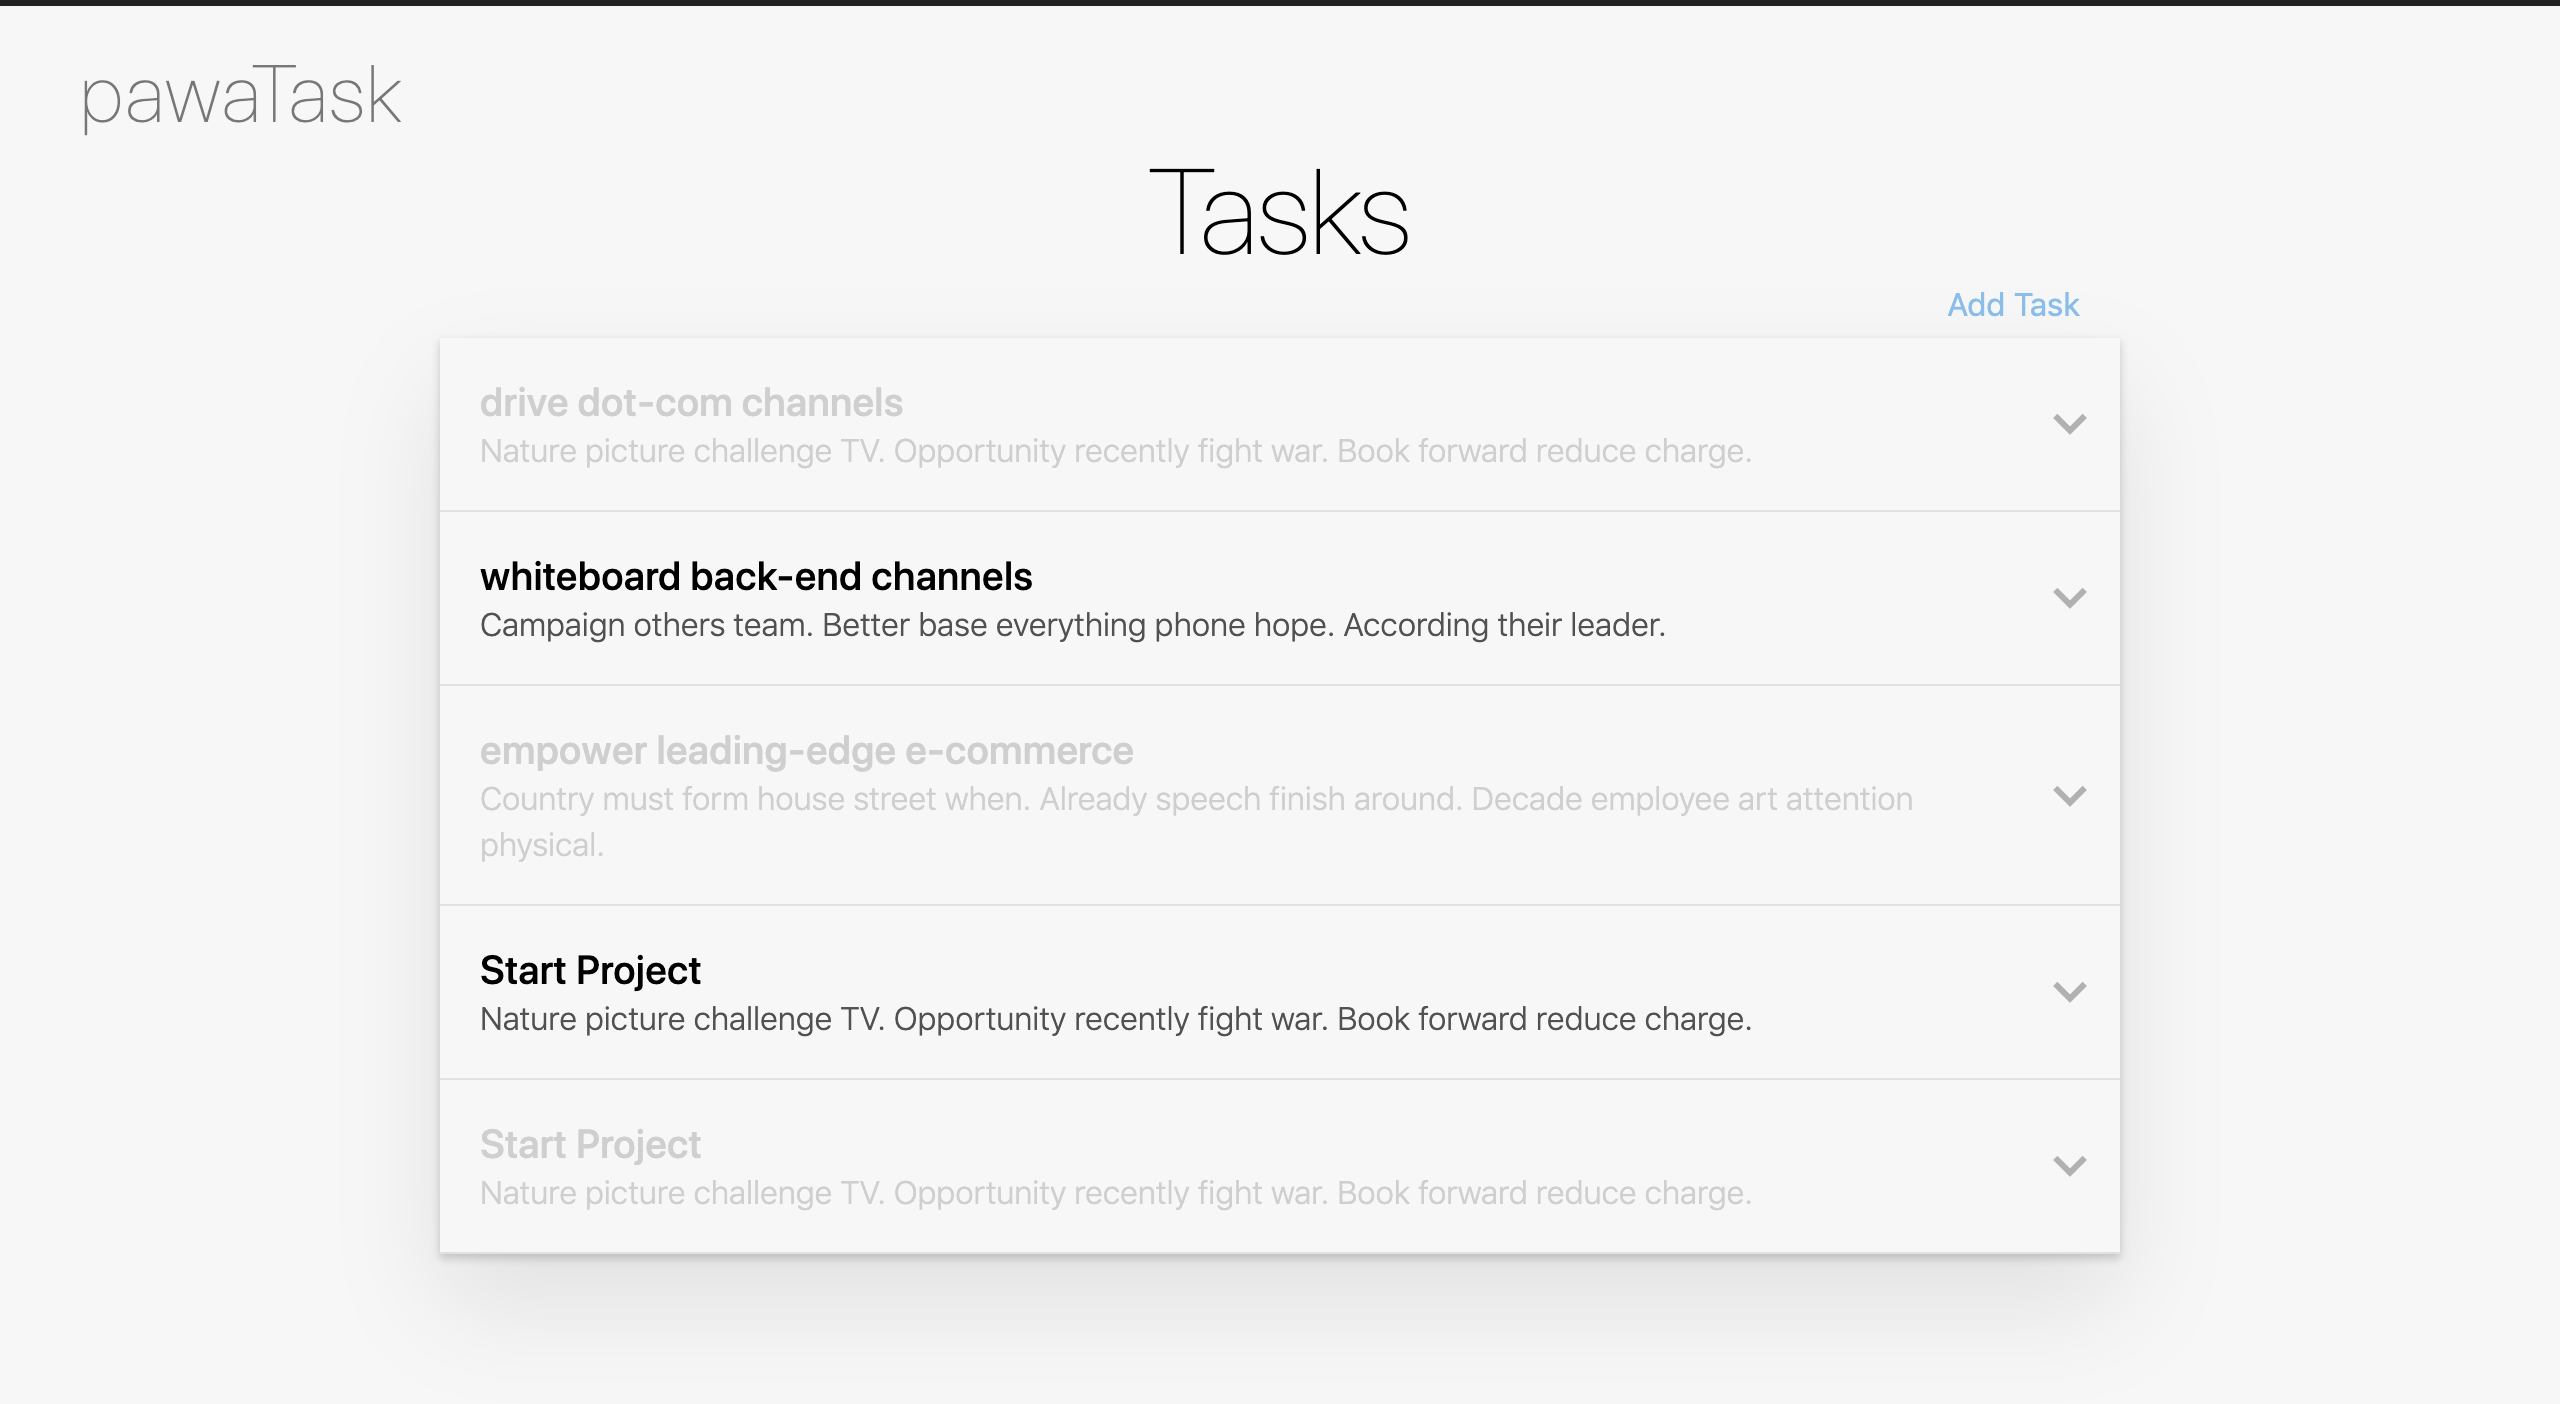
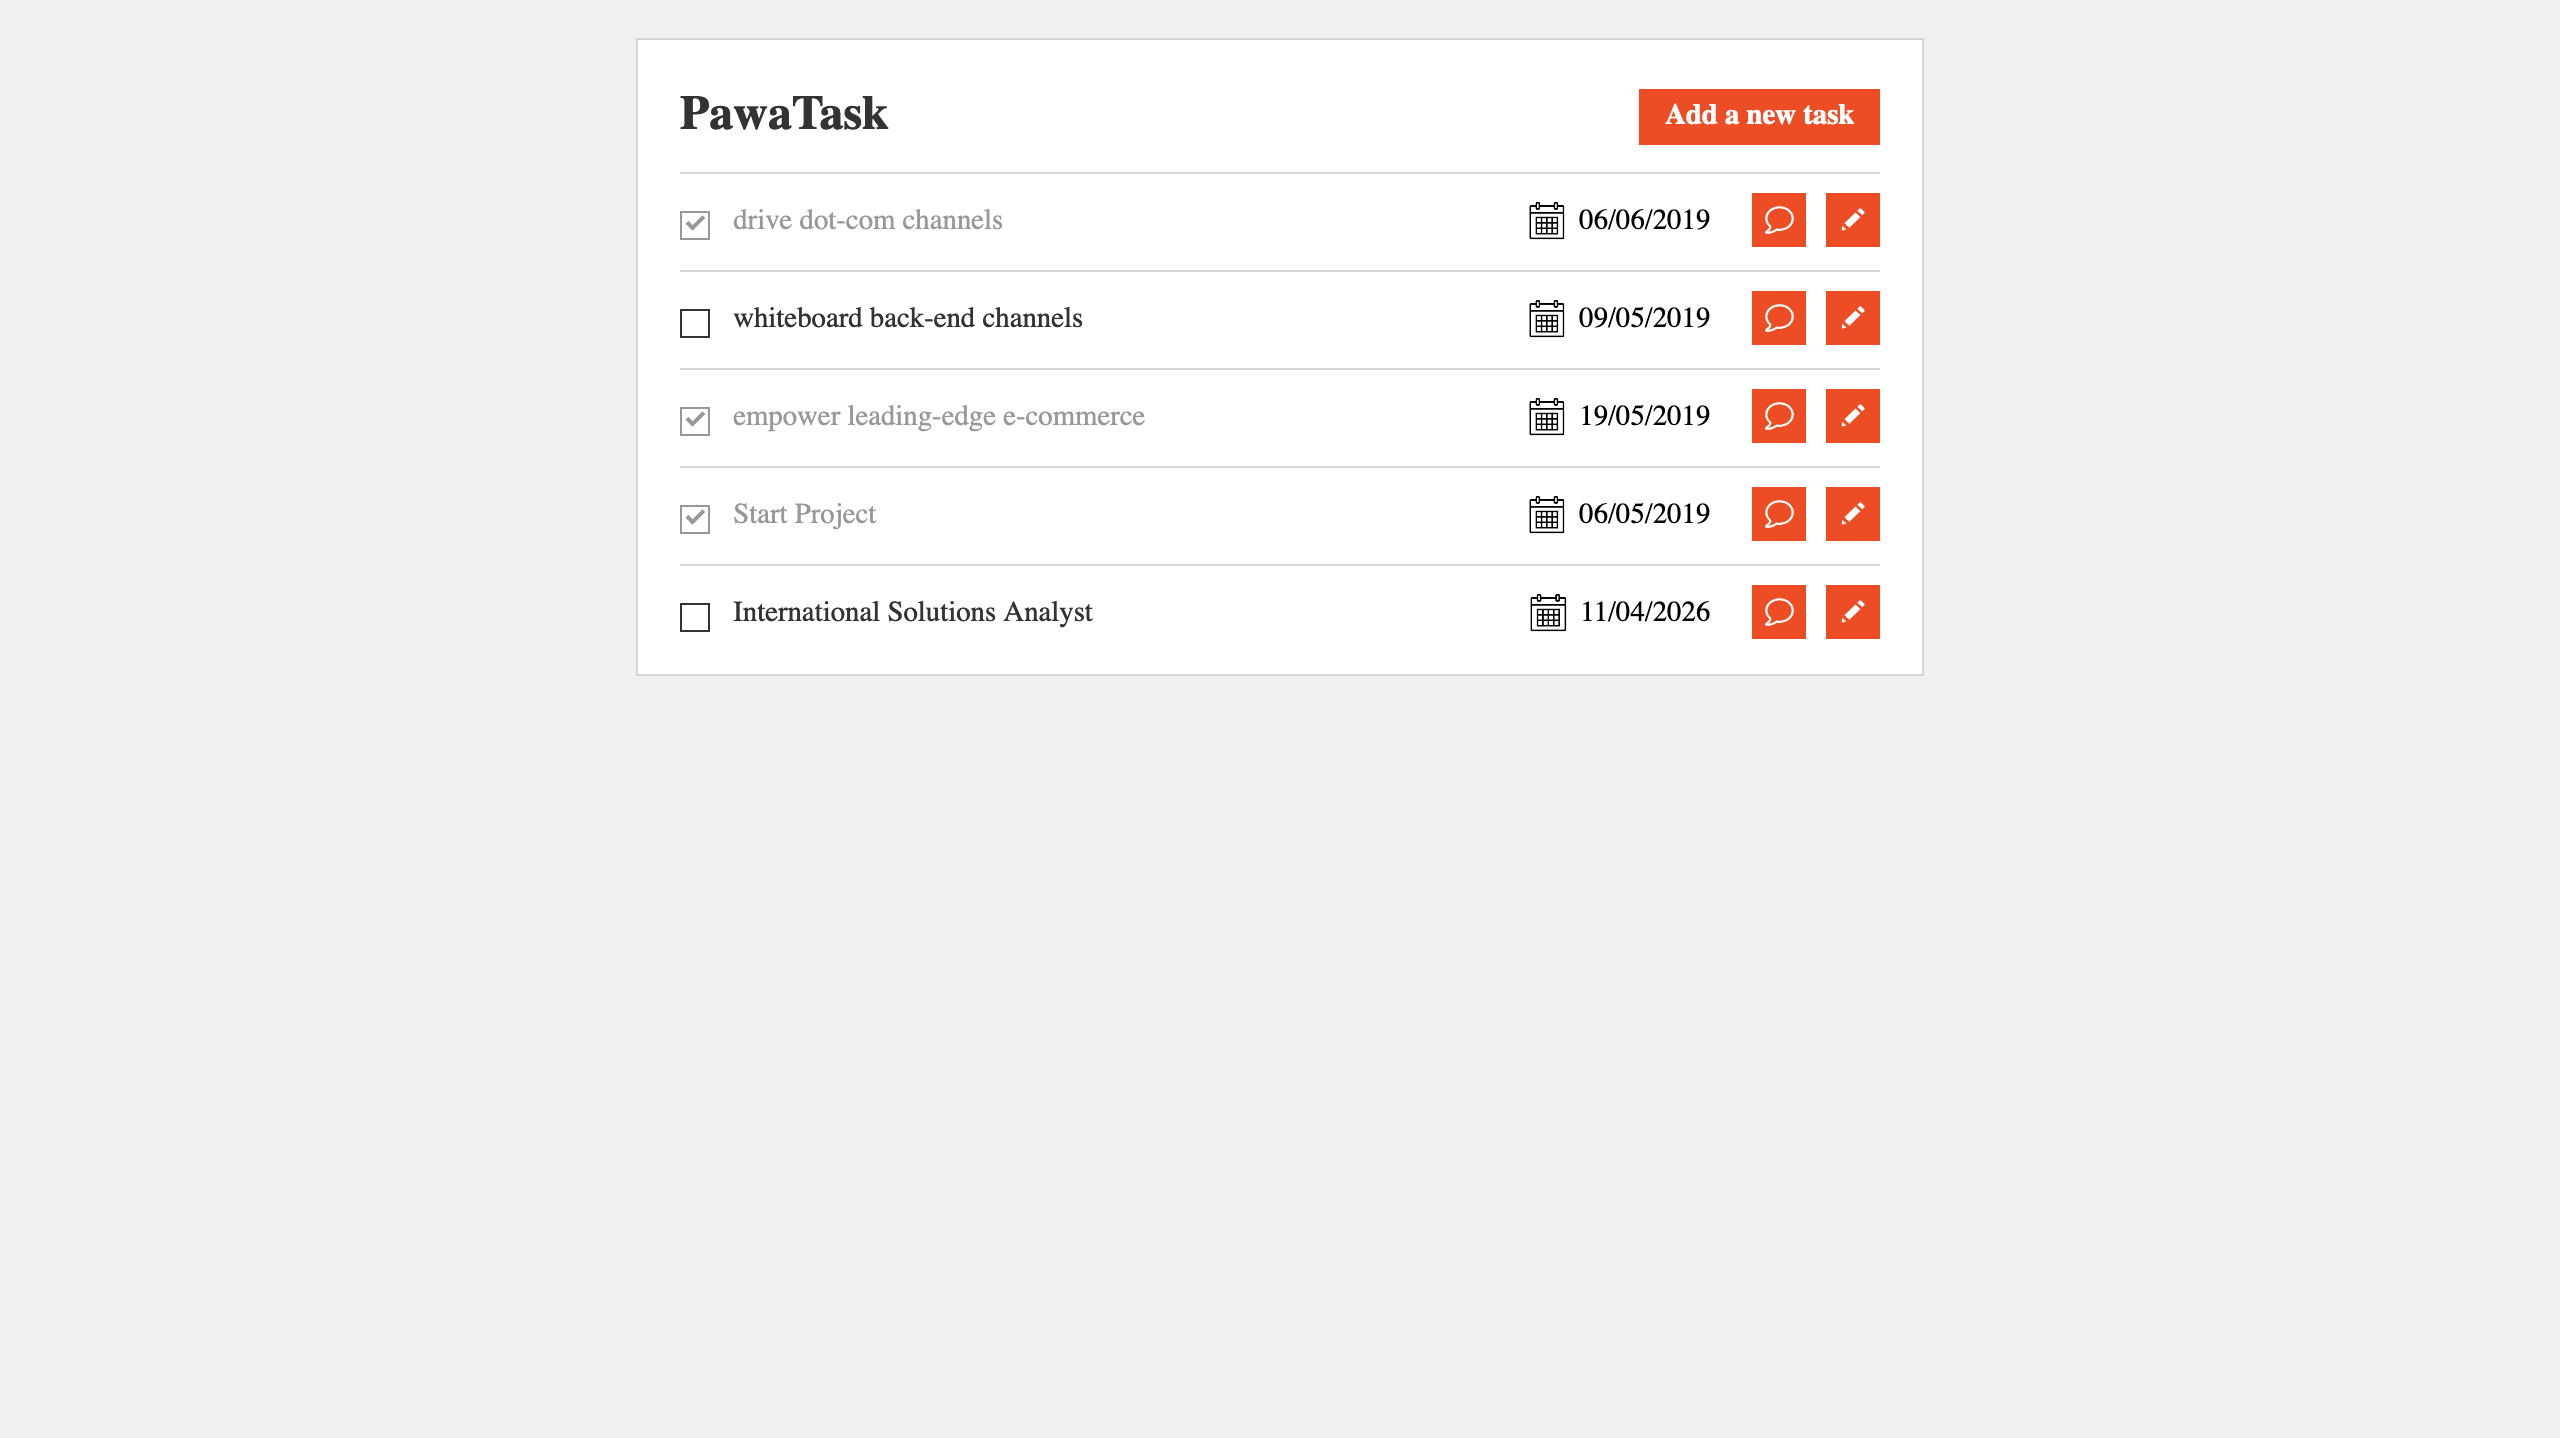
docs(readme): update, add new screenshots

diff --git a/README.md b/README.md
@@ -17,6 +17,8 @@
     </tbody>
 </table>
 
+Check out an alternative version at [azdanov/pawa-task/tree/own-design](https://github.com/azdanov/pawa-task/tree/own-design).
+
 ## How To
 
 - To access the application go to: http://localhost:8080/.
